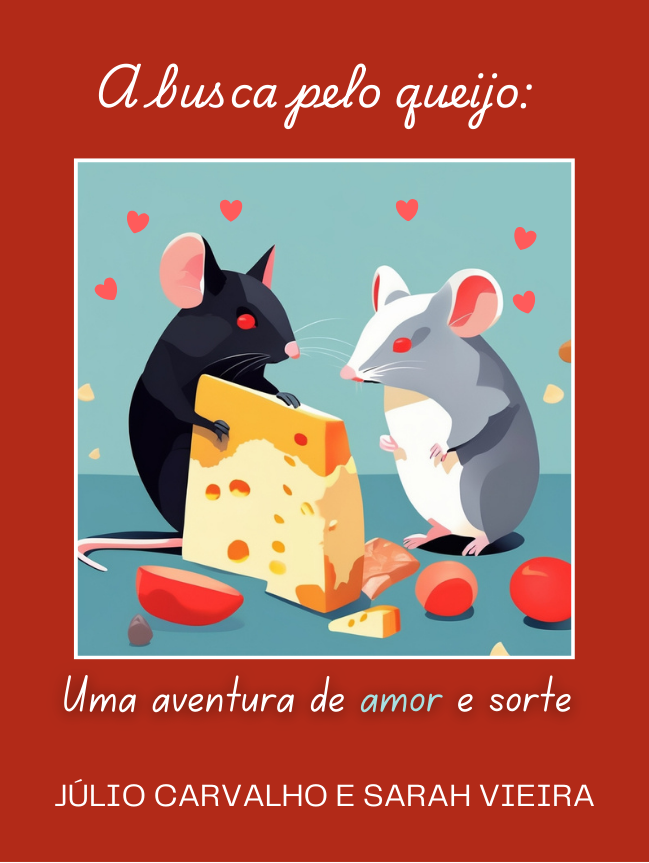
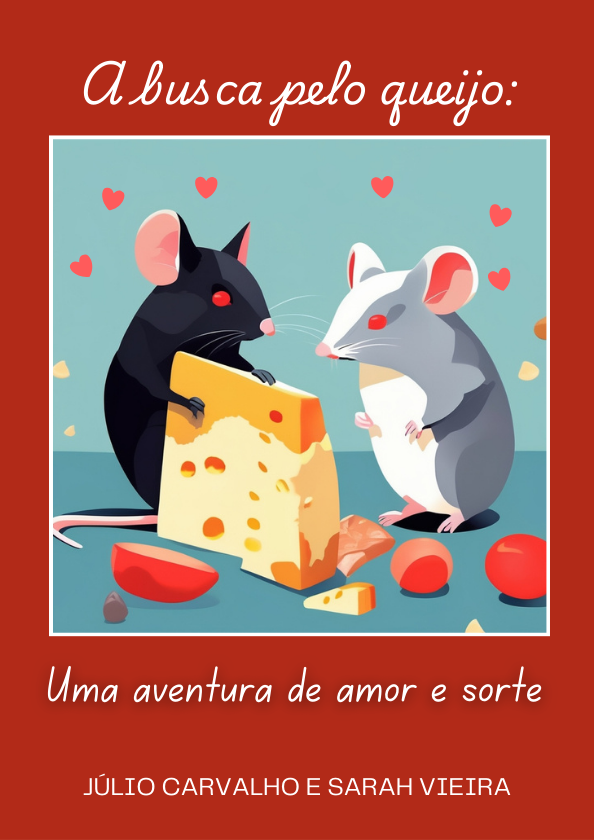
novo capa e fundo de livro

Changed region(s): [[0.0606, 0.0619, 0.9394, 0.8357], [0.0909, 0.8976, 0.9091, 0.9595], [0.0, 0.9905, 1.0, 1.0]]

diff --git a/book.html b/book.html
@@ -12,7 +12,6 @@
       box-sizing: border-box;
     }
     .book-container {
-      padding: 30px;
       margin: 0;
       width: 100vw;
       display: flex;
@@ -52,43 +51,14 @@
       title: "A busca pelo queijo:",
       subTitle: "Uma aventura de amor e sorte",
       data: "16-07-2024",
-      nPages: 3
-    },{
-      bgcolor: "#8EC4C4",
-      title: "A busca pelo queijo:",
-      subTitle: "Uma aventura de amor e sorte",
-      data: "16-07-2024",
-      nPages: 3
-    },{
-      bgcolor: "#8EC4C4",
-      title: "A busca pelo queijo:",
-      subTitle: "Uma aventura de amor e sorte",
-      data: "16-07-2024",
-      nPages: 3
-    },{
-      bgcolor: "#8EC4C4",
-      title: "A busca pelo queijo:",
-      subTitle: "Uma aventura de amor e sorte",
-      data: "16-07-2024",
-      nPages: 3
-    },{
-      bgcolor: "#8EC4C4",
-      title: "A busca pelo queijo:",
-      subTitle: "Uma aventura de amor e sorte",
-      data: "16-07-2024",
-      nPages: 3
-    },{
-      bgcolor: "#8EC4C4",
-      title: "A busca pelo queijo:",
-      subTitle: "Uma aventura de amor e sorte",
-      data: "16-07-2024",
-      nPages: 3
-    },{
-      bgcolor: "#8EC4C4",
-      title: "A busca pelo queijo:",
-      subTitle: "Uma aventura de amor e sorte",
-      data: "16-07-2024",
-      nPages: 3
+      nPages: 5
+    },
+    {
+      bgcolor: "#C47086",
+      title: "Amor além das estrelas:",
+      subTitle: "Uma jornada de supera ão",
+      data: "23-07-2024",
+      nPages: 2
     }];
 
     const pageInView = []
@@ -97,7 +67,7 @@
     });
     function handlePage (book, next) {
       
-      if ( next && books[book].nPages > pageInView[book] ) {
+      if ( next && books[book].nPages -1 > pageInView[book] ) {
         pageInView[book] += 1 
       }
 
@@ -143,7 +113,7 @@
         for (let indexP = 0; indexP < book.nPages+1; indexP++) {
           containerBook.innerHTML += `
             <img 
-              src="./books/${0}/${indexP}.png"
+              src="./books/${indexB}/${indexP}.png"
               style="
                 ${isLandscape ? 
                   'width: auto; height: 90%;' :
@@ -172,7 +142,7 @@
 
     window.onload = function() {
       const params = new URLSearchParams(window.location.search);
-      const scrollToId = params.get('scrollTo');
+      const scrollToId = params.get('book');
       if (scrollToId) {
         const targetElement = document.getElementById(scrollToId);
         if (targetElement) {
